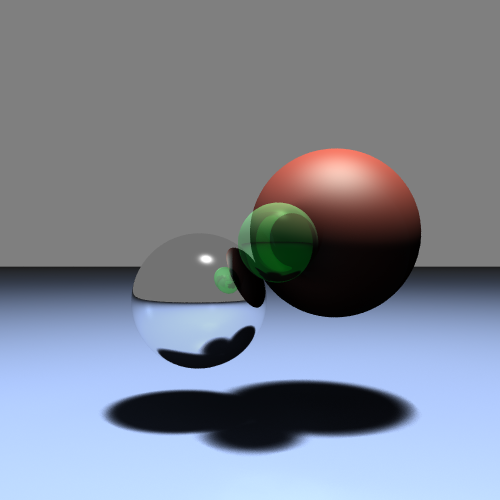
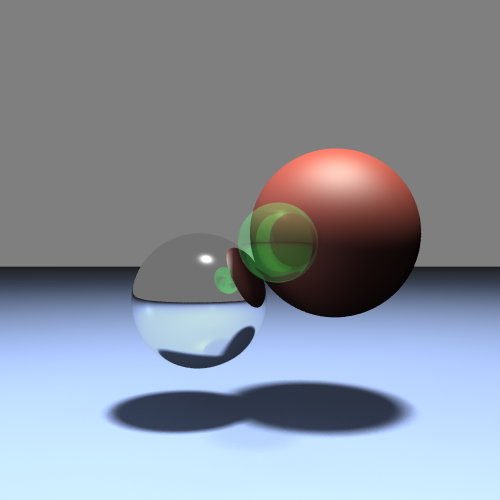
some shadow fix

Changed region(s): [[0.18, 0.75, 0.84, 0.93], [0.42, 0.33, 0.72, 0.6], [0.3, 0.63, 0.51, 0.75]]

diff --git a/src/RayTracing/Set.java b/src/RayTracing/Set.java
@@ -192,7 +192,7 @@ public class Set {
 		return retVal;
 	}
 
-	private boolean isFirstHit(Ray r, Vector V) {
+	private boolean isFirstHit(Ray r, Vector P) {
 
 		for (Primitive primitive : all_primitives) {
 			try {
@@ -201,7 +201,7 @@ public class Set {
 					continue;
 				} else {
 					double lengthToPrimitive = in.substract(r.getOrigin()).magnitude();
-					double lengthToLight = V.substract(r.getOrigin()).magnitude();
+					double lengthToLight = P.substract(r.getOrigin()).magnitude();
 					if ((lengthToPrimitive < lengthToLight)) {
 						return false;
 					}
@@ -280,8 +280,10 @@ public class Set {
 	private Color getDiffusionColorAtIntersection(Primitive primitive, Ray inRay, Vector intersection) {
 		Color color = new Color(0, 0, 0);
 		Color K_d = primitive.getMaterial().getDiffuseColor();
-		for (Light lit : lights) {
-			try {
+		for (Light lit : lights) 
+		{
+			try 
+			{
 				Color I_p = lit.getColor();
 				Color litEffect = new Color(0, 0, 0);
 				//-- go back a little:
@@ -325,14 +327,10 @@ public class Set {
 
 						Ray r = new Ray(go_back_a_little, L);
 
-						if (isFirstHit(r, P)){//if (isFirstHit(r, L)){
-							numOfShadowRaysHit++;
+						double notFirstHitFactor = notFirstHitFactor(r, P);
+						if (!isFirstHit(r, P)){
+							pLitEffect = pLitEffect.scalarMultiply(1 - lit.getShadowIntensity()*(1-notFirstHitFactor));
 						}
-						else{
-							pLitEffect = pLitEffect.scalarMultiply(1 - lit.getShadowIntensity());
-						}
-//						double notFirstHitFactor = notFirstHitFactor(r, L);
-//
 //						numOfShadowRaysHit += notFirstHitFactor;
 //
 //						if (notFirstHitFactor != 1.0){
@@ -345,11 +343,13 @@ public class Set {
 						litEffect = litEffect.add(pLitEffect);
 					}
 				}
-				double shadow_rays_factor = numOfShadowRaysHit / (num_of_shadow_rays * num_of_shadow_rays);
-				litEffect = litEffect.scalarMultiply(shadow_rays_factor);
+//				double shadow_rays_factor = numOfShadowRaysHit / (num_of_shadow_rays * num_of_shadow_rays);
+//				litEffect = litEffect.scalarMultiply(shadow_rays_factor);
 				litEffect = litEffect.scalarMultiply(1.0 / (num_of_shadow_rays * num_of_shadow_rays));
 				color = color.add(litEffect);
-			} catch (RayTracerException e) {
+			}
+			catch (RayTracerException e) 
+			{
 				e.printStackTrace();
 				continue;
 			}
@@ -372,7 +372,7 @@ public class Set {
 			Vector orig_go_back_a_little = new Vector(closest_intersection.substract(ray_out_vector.timesScalar(Math.pow(10, -10))));//TODO: think about the correct timesScalar(?)
 			Ray ray_out = new Ray(orig_go_back_a_little, ray_out_vector);
 
-			return (getColorAtIntersectionOfRay(ray_out, depth + 1));
+			return getColorAtIntersectionOfRay(ray_out, depth + 1);
 		} catch (RayTracerException e) {
 			// TODO Auto-generated catch block
 			e.printStackTrace();

diff --git a/src/RayTracing/Sphere.java b/src/RayTracing/Sphere.java
@@ -20,7 +20,7 @@ public class Sphere extends Primitive {
 		//Calculations were took from Dani's presentation.
 		Vector L = origin.substract(r.getOrigin());
 		double t_ca = L.dotProduct(r.getVector());
-		if (t_ca < 0)
+		if (t_ca < 0)// && (origin.substract(r.getOrigin()).magnitude() > radius))
 			return null;
 
 		double d_squared = Vector.dotProduct(L, L) - t_ca * t_ca;
@@ -39,16 +39,8 @@ public class Sphere extends Primitive {
 		//take only one solution: (t_hc - t_ca) or (t_hc + t_ca) (calcs explanations are not included here yet)
 		if (origin.substract(r.getOrigin()).magnitude() < radius)
 		{
-			Vector r_new = r.getUnitTimes(t_ca + t_hc);
-			double epsilon = Math.pow(10, -10);
-
-			double t3;
-			if (Math.abs(radius * radius - L.dotProduct(L) - r_new.dotProduct(r_new) + 2*(r_new.dotProduct(L))) < epsilon){
-				t3 = t_hc + t_ca;
-			}else{
-				t3 = t_hc - t_ca;
-			}
-
+			
+			double t3 = t_hc + t_ca;
 			intersection_points[0] =  r.getOrigin().add(r.getUnitTimes(t3));
 			intersection_points[1] = null;
 		}
@@ -82,6 +74,10 @@ public class Sphere extends Primitive {
 	{
 		Vector P = closerIntersectionPoint(r);
 		Vector N = P.substract(origin);
+		if (origin.substract(r.getOrigin()).magnitude() < radius)
+		{
+			N = N.timesScalar(-1.0);
+		}
 		N.normalize();
 		return N;
 	}
@@ -101,8 +97,11 @@ public class Sphere extends Primitive {
 		int matInx = Integer.parseInt(params[4]); 
 		
 		Material m = set.getMaterial(matInx);
-		if (m != null)
-			return new Sphere(m, new Vector(px,py,pz), rd);
+		if (m != null){
+			Material mtag = new Material(m);
+			mtag.makeMoreTransparent();
+			return new Sphere(mtag, new Vector(px,py,pz), rd);			
+		}
 		else
 			throw new RayTracerException("Sphere material index error!");
 	}

diff --git a/src/RayTracing/Material.java b/src/RayTracing/Material.java
@@ -70,6 +70,10 @@ public class Material
 	{
 		return matInx;
 	}
+	
+	public void makeMoreTransparent(){
+		transparencyCoeff = Math.sqrt(transparencyCoeff);
+	}
 
 	public static Material parseMaterial(String[] params) 
 	{

diff --git a/src/RayTracing/Light.java b/src/RayTracing/Light.java
@@ -1,7 +1,5 @@
 package RayTracing;
 
-import RayTracing.RayTracer.RayTracerException;
-
 public class Light {
 
 	private Vector origin;
